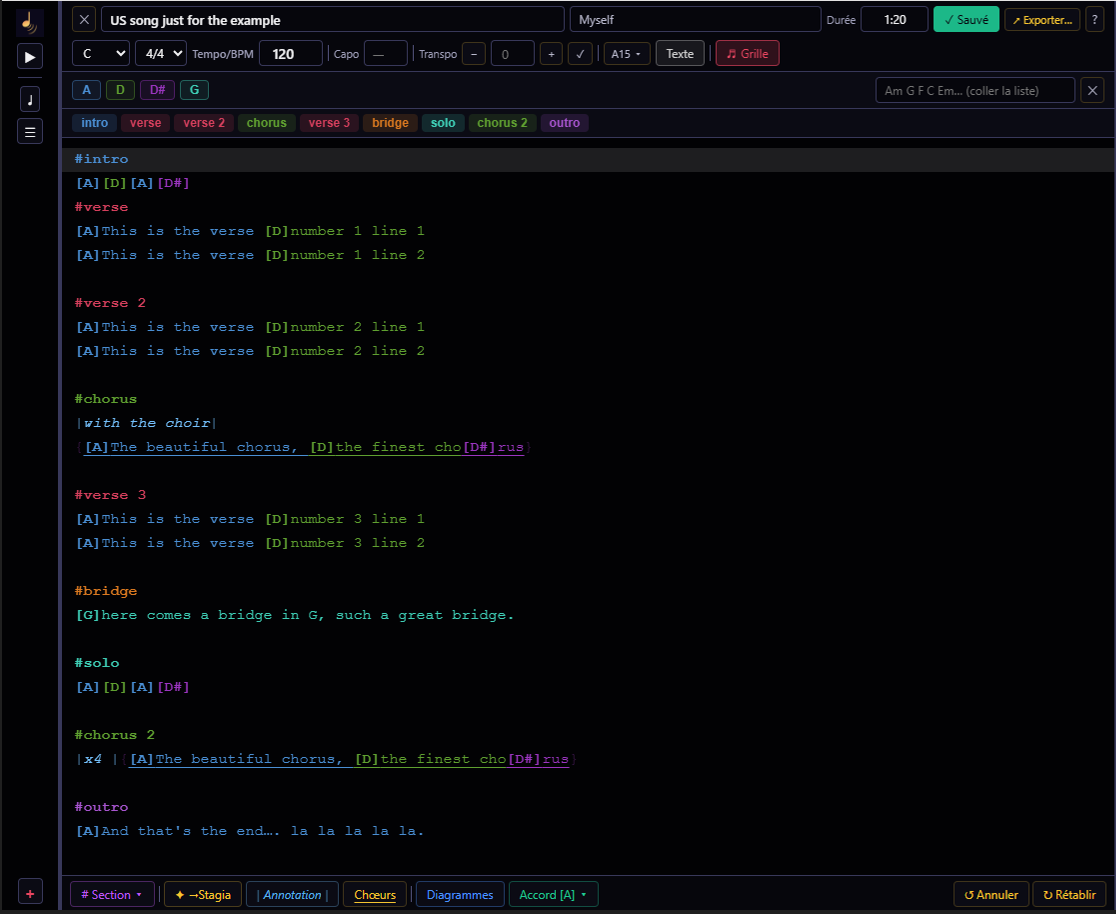
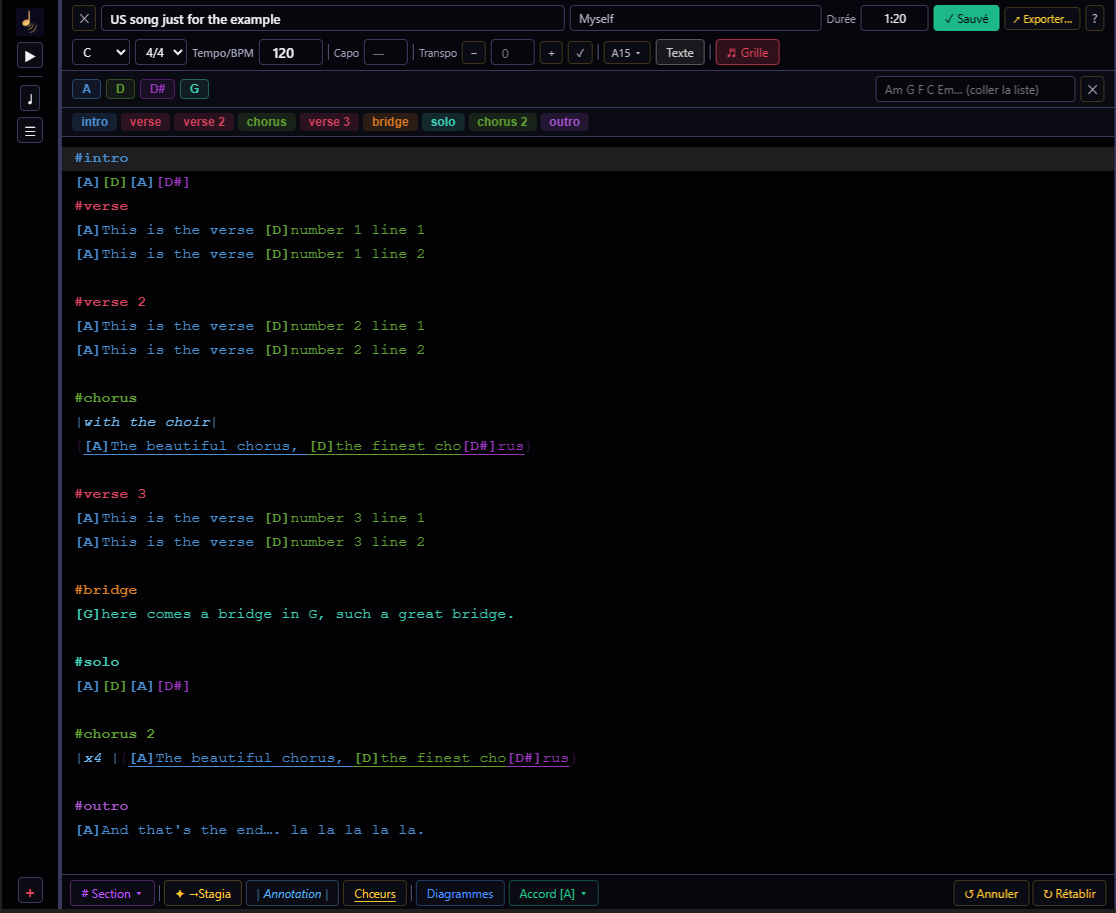
Add files via upload

diff --git a/gigflow-editor.html b/gigflow-editor.html
@@ -124,8 +124,8 @@ height="0" width="0" style="display:none;visibility:hidden"></iframe></noscript>
   <div class="wrap hero-grid">
     <div class="hero-copy">
       <p class="eyebrow">GigFlow Editor · Navigateur</p>
-      <h1><span data-tk="h1">Ton répertoire complet.</span><br><span class="accent" data-tk="accent">À moindre effort.</span></h1>
-      <p class="sub" data-tk="sub">Syntaxe légère, aperçu temps réel, export vers Live et InBeat. Tu construis ta base une bonne fois — et tu n’y reviens que pour l’enrichir.</p>
+      <h1><span data-tk="h1">Le confort du clavier, la précision de la souris.</span><br><span class="accent" data-tk="accent">La liberté pour la scène.</span></h1>
+      <p class="sub" data-tk="sub">Grand écran, clavier, souris — prépare tes chansons et setlists dans les meilleures conditions. Un export, et tu montes sur scène avec Live ou InBeat.</p>
       <div class="hero-actions">
         <a class="btn-primary" href="https://stagia.app/gigflow-editor/editor.html" target="_blank" rel="noopener"><i data-lucide="external-link"></i> Lancer GigFlow Editor</a>
       </div>
@@ -328,74 +328,6 @@ height="0" width="0" style="display:none;visibility:hidden"></iframe></noscript>
   m.addEventListener('click', function (e) { if (e.target.closest('a')) close(); });
 })();
 </script>
-
-<!-- TWEAKS — MESSAGING VARIANTS -->
-<div id="_tk" style="position:fixed;bottom:20px;right:20px;z-index:9999;font-family:-apple-system,BlinkMacSystemFont,'Segoe UI',sans-serif;display:flex;flex-direction:column;align-items:flex-end;gap:8px;">
-  <div id="_tkp" style="display:none;width:272px;background:#12101C;border:1px solid rgba(255,255,255,0.14);border-radius:14px;overflow:hidden;box-shadow:0 16px 56px rgba(0,0,0,0.65);">
-    <div style="display:flex;align-items:center;justify-content:space-between;padding:14px 16px 12px;border-bottom:1px solid rgba(255,255,255,0.08);">
-      <span style="font-size:12px;font-weight:700;color:#fff;letter-spacing:0.06em;text-transform:uppercase;">✦ Messaging</span>
-      <button id="_tkx" style="background:none;border:none;color:rgba(255,255,255,0.3);cursor:pointer;font-size:18px;padding:0;line-height:1;">×</button>
-    </div>
-    <div style="padding:12px 14px 14px;">
-      <div style="font-size:10px;letter-spacing:0.14em;text-transform:uppercase;color:rgba(255,255,255,0.35);margin-bottom:8px;">Variation</div>
-      <div id="_tko" style="display:flex;flex-direction:column;gap:6px;"></div>
-    </div>
-  </div>
-  <button id="_tkb" style="background:#12101C;border:1px solid rgba(255,255,255,0.16);color:#F5C25F;border-radius:8px;padding:8px 14px;cursor:pointer;font-size:11px;font-weight:700;letter-spacing:0.08em;text-transform:uppercase;">✦ Messaging</button>
-</div>
-<script>
-(function(){
-  var KEY='_tk_editor';
-  var V=[
-    {label:'A — Efficacité',h1:'Ton répertoire complet.',accent:'À moindre effort.',sub:'Syntaxe légère, aperçu temps réel, export vers Live et InBeat. Tu construis ta base une bonne fois — et tu n’y reviens que pour l’enrichir.'},
-    {label:'B — Workflow',h1:'Saisis une fois.',accent:'Joue partout.',sub:'GigFlow Editor alimente Live et InBeat. Une chanson saisie sur PC, aussitôt disponible sur tablette. Sans effort, sans doublon.'},
-    {label:'C — Confort',h1:'Le confort du clavier, la précision de la souris.',accent:'La liberté pour la scène.',sub:'Grand écran, clavier, souris — prépare tes chansons et setlists dans les meilleures conditions. Un export, et tu montes sur scène avec Live ou InBeat.'}
-  ];
-  function apply(i){
-    var v=V[i];
-    Object.keys(v).forEach(function(k){
-      if(k==='label')return;
-      var el=document.querySelector('[data-tk="'+k+'"]');
-      if(el)el.textContent=v[k];
-    });
-    localStorage.setItem(KEY,i);
-    document.querySelectorAll('._tkd').forEach(function(d,j){d.style.background=j===i?'#F5C25F':'transparent';});
-  }
-  var opts=document.getElementById('_tko');
-  V.forEach(function(v,i){
-    var row=document.createElement('button');
-    row.style.cssText='display:flex;align-items:flex-start;gap:10px;background:none;border:1px solid rgba(255,255,255,0.08);border-radius:8px;padding:10px 12px;cursor:pointer;text-align:left;width:100%;transition:border-color 120ms,background 120ms;color:#fff;';
-    row.onmouseover=function(){this.style.borderColor='rgba(255,255,255,0.2)';this.style.background='rgba(255,255,255,0.04)';};
-    row.onmouseout=function(){this.style.borderColor='rgba(255,255,255,0.08)';this.style.background='none';};
-    var dot=document.createElement('span');dot.className='_tkd';
-    dot.style.cssText='width:10px;height:10px;border-radius:50%;border:1.5px solid #F5C25F;flex:none;margin-top:3px;transition:background 160ms;';
-    var txt=document.createElement('span');txt.style.cssText='font-size:12px;line-height:1.45;';
-    txt.innerHTML='<span style="font-size:10px;text-transform:uppercase;letter-spacing:0.1em;color:rgba(255,255,255,0.4);display:block;margin-bottom:4px;">'+v.label+'<\/span><span style="color:rgba(255,255,255,0.9);">'+v.h1+'<\/span> <span style="color:#F5C25F;">'+v.accent+'<\/span>';
-    row.appendChild(dot);row.appendChild(txt);
-    row.addEventListener('click',function(){apply(i);});
-    opts.appendChild(row);
-  });
-  var saved=Math.min(parseInt(localStorage.getItem(KEY)||'0',10),V.length-1);
-  apply(saved);
-  var panel=document.getElementById('_tkp'),btn=document.getElementById('_tkb'),xb=document.getElementById('_tkx');
-  function setOpen(open){panel.style.display=open?'block':'none';try{window.parent.postMessage({type:'tweaks:state',open:open},'*');}catch(e){}}
-  btn.addEventListener('click',function(){setOpen(panel.style.display==='none');});
-  xb.addEventListener('click',function(){setOpen(false);});
-  window.addEventListener('message',function(e){
-    if(!e.data||!e.data.type)return;
-    if(e.data.type==='tweaks:toggle')setOpen(panel.style.display==='none');
-    if(e.data.type==='tweaks:open')setOpen(true);
-    if(e.data.type==='tweaks:close')setOpen(false);
-  });
-  try{window.parent.postMessage({type:'tweaks:ready'},'*');}catch(e){}
-})();
-</script>
-<template id="__bundler_thumbnail" data-bg-color="#0C0A18">
-  <svg viewBox="0 0 1200 800" xmlns="http://www.w3.org/2000/svg">
-    <rect width="1200" height="800" fill="#0C0A18"/>
-    <text x="600" y="420" text-anchor="middle" font-family="monospace" font-weight="700" font-size="180" fill="#E63429">GE</text>
-  </svg>
-</template>
 </body>
 <template id="__bundler_thumbnail" data-bg-color="#0C0A18">
   <svg viewBox="0 0 1200 800" xmlns="http://www.w3.org/2000/svg">

diff --git a/index.html b/index.html
@@ -611,68 +611,6 @@ height="0" width="0" style="display:none;visibility:hidden"></iframe></noscript>
   m.addEventListener('click', function (e) { if (e.target.closest('a')) close(); });
 })();
 </script>
-
-<!-- TWEAKS — MESSAGING VARIANTS -->
-<div id="_tk" style="position:fixed;bottom:20px;right:20px;z-index:9999;font-family:-apple-system,BlinkMacSystemFont,'Segoe UI',sans-serif;display:flex;flex-direction:column;align-items:flex-end;gap:8px;">
-  <div id="_tkp" style="display:none;width:272px;background:#12101C;border:1px solid rgba(255,255,255,0.14);border-radius:14px;overflow:hidden;box-shadow:0 16px 56px rgba(0,0,0,0.65);">
-    <div style="display:flex;align-items:center;justify-content:space-between;padding:14px 16px 12px;border-bottom:1px solid rgba(255,255,255,0.08);">
-      <span style="font-size:12px;font-weight:700;color:#fff;letter-spacing:0.06em;text-transform:uppercase;">✦ Messaging</span>
-      <button id="_tkx" style="background:none;border:none;color:rgba(255,255,255,0.3);cursor:pointer;font-size:18px;padding:0;line-height:1;">×</button>
-    </div>
-    <div style="padding:12px 14px 14px;">
-      <div style="font-size:10px;letter-spacing:0.14em;text-transform:uppercase;color:rgba(255,255,255,0.35);margin-bottom:8px;">Variation</div>
-      <div id="_tko" style="display:flex;flex-direction:column;gap:6px;"></div>
-    </div>
-  </div>
-  <button id="_tkb" style="background:#12101C;border:1px solid rgba(255,255,255,0.16);color:#F5C25F;border-radius:8px;padding:8px 14px;cursor:pointer;font-size:11px;font-weight:700;letter-spacing:0.08em;text-transform:uppercase;">✦ Messaging</button>
-</div>
-<script>
-(function(){
-  var KEY='_tk_home';
-  var V=[
-    {label:'A — Brand EN',eyebrow:'Stagia',h1:'Tools for musicians,',accent:'by musicians.',sub:'GigFlow Live, InBeat, GigFlow Editor — des apps simples, fiables, offline. Faites pour jouer, pas pour naviguer dans des menus.'},
-    {label:'B — Complice',eyebrow:'Pour les musiciens de scène',h1:'Tout pour jouer.',accent:'Rien de superflu.',sub:'Paroles, accords, tempo, setlists — on a fait les apps qu’on aurait voulu avoir. Offline, achat unique, sans friction.'},
-    {label:'C — Résultat',eyebrow:'Tes outils de scène',h1:'La scène sans les galères.',accent:'Enfin.',sub:'Trois apps pensées par des musiciens. Pour le chanteur, le batteur, la préparation sur PC. Offline. Sans abonnement.'}
-  ];
-  function apply(i){
-    var v=V[i];
-    Object.keys(v).forEach(function(k){
-      if(k==='label')return;
-      var el=document.querySelector('[data-tk="'+k+'"]');
-      if(el)el.textContent=v[k];
-    });
-    localStorage.setItem(KEY,i);
-    document.querySelectorAll('._tkd').forEach(function(d,j){d.style.background=j===i?'#F5C25F':'transparent';});
-  }
-  var opts=document.getElementById('_tko');
-  V.forEach(function(v,i){
-    var row=document.createElement('button');
-    row.style.cssText='display:flex;align-items:flex-start;gap:10px;background:none;border:1px solid rgba(255,255,255,0.08);border-radius:8px;padding:10px 12px;cursor:pointer;text-align:left;width:100%;transition:border-color 120ms,background 120ms;color:#fff;';
-    row.onmouseover=function(){this.style.borderColor='rgba(255,255,255,0.2)';this.style.background='rgba(255,255,255,0.04)';};
-    row.onmouseout=function(){this.style.borderColor='rgba(255,255,255,0.08)';this.style.background='none';};
-    var dot=document.createElement('span');dot.className='_tkd';
-    dot.style.cssText='width:10px;height:10px;border-radius:50%;border:1.5px solid #F5C25F;flex:none;margin-top:3px;transition:background 160ms;';
-    var txt=document.createElement('span');txt.style.cssText='font-size:12px;line-height:1.45;';
-    txt.innerHTML='<span style="font-size:10px;text-transform:uppercase;letter-spacing:0.1em;color:rgba(255,255,255,0.4);display:block;margin-bottom:4px;">'+v.label+'<\/span><span style="color:rgba(255,255,255,0.9);">'+v.h1+'<\/span> <span style="color:#F5C25F;">'+v.accent+'<\/span>';
-    row.appendChild(dot);row.appendChild(txt);
-    row.addEventListener('click',function(){apply(i);});
-    opts.appendChild(row);
-  });
-  var saved=Math.min(parseInt(localStorage.getItem(KEY)||'0',10),V.length-1);
-  apply(saved);
-  var panel=document.getElementById('_tkp'),btn=document.getElementById('_tkb'),xb=document.getElementById('_tkx');
-  function setOpen(open){panel.style.display=open?'block':'none';try{window.parent.postMessage({type:'tweaks:state',open:open},'*');}catch(e){}}
-  btn.addEventListener('click',function(){setOpen(panel.style.display==='none');});
-  xb.addEventListener('click',function(){setOpen(false);});
-  window.addEventListener('message',function(e){
-    if(!e.data||!e.data.type)return;
-    if(e.data.type==='tweaks:toggle')setOpen(panel.style.display==='none');
-    if(e.data.type==='tweaks:open')setOpen(true);
-    if(e.data.type==='tweaks:close')setOpen(false);
-  });
-  try{window.parent.postMessage({type:'tweaks:ready'},'*');}catch(e){}
-})();
-</script>
 <template id="__bundler_thumbnail" data-bg-color="#0C0A18">
   <svg viewBox="0 0 1200 800" xmlns="http://www.w3.org/2000/svg">
     <rect width="1200" height="800" fill="#0C0A18"/>

diff --git a/gigflow-live.html b/gigflow-live.html
@@ -280,68 +280,6 @@ height="0" width="0" style="display:none;visibility:hidden"></iframe></noscript>
   m.addEventListener('click', function (e) { if (e.target.closest('a')) close(); });
 })();
 </script>
-
-<!-- TWEAKS — MESSAGING VARIANTS -->
-<div id="_tk" style="position:fixed;bottom:20px;right:20px;z-index:9999;font-family:-apple-system,BlinkMacSystemFont,'Segoe UI',sans-serif;display:flex;flex-direction:column;align-items:flex-end;gap:8px;">
-  <div id="_tkp" style="display:none;width:272px;background:#12101C;border:1px solid rgba(255,255,255,0.14);border-radius:14px;overflow:hidden;box-shadow:0 16px 56px rgba(0,0,0,0.65);">
-    <div style="display:flex;align-items:center;justify-content:space-between;padding:14px 16px 12px;border-bottom:1px solid rgba(255,255,255,0.08);">
-      <span style="font-size:12px;font-weight:700;color:#fff;letter-spacing:0.06em;text-transform:uppercase;">✦ Messaging</span>
-      <button id="_tkx" style="background:none;border:none;color:rgba(255,255,255,0.3);cursor:pointer;font-size:18px;padding:0;line-height:1;">×</button>
-    </div>
-    <div style="padding:12px 14px 14px;">
-      <div style="font-size:10px;letter-spacing:0.14em;text-transform:uppercase;color:rgba(255,255,255,0.35);margin-bottom:8px;">Variation</div>
-      <div id="_tko" style="display:flex;flex-direction:column;gap:6px;"></div>
-    </div>
-  </div>
-  <button id="_tkb" style="background:#12101C;border:1px solid rgba(255,255,255,0.16);color:#F5C25F;border-radius:8px;padding:8px 14px;cursor:pointer;font-size:11px;font-weight:700;letter-spacing:0.08em;text-transform:uppercase;">✦ Messaging</button>
-</div>
-<script>
-(function(){
-  var KEY='_tk_live';
-  var V=[
-    {label:'A — Direct',h1:'Tu joues.',accent:'GigFlow Live gère le reste.',sub:'Paroles, accords, setlist — tout sous les yeux sans toucher l’écran. Simple, fiable, pensé pour la scène.'},
-    {label:'B — Résultat',h1:'Tes mains sur l’instrument.',accent:'Le reste, c’est nous.',sub:'Navigue à la pédale, lis tes accords d’un coup d’œil, suis le chrono. GigFlow Live tourne en silence pendant que toi tu joues.'},
-    {label:'C — Scène',h1:'La setlist dans la poche.',accent:'L’instrument dans les mains.',sub:'Accords colorés, sections repérées, navigation pédale. Tout ce qu’il faut pour monter sur scène sans rien oublier.'}
-  ];
-  function apply(i){
-    var v=V[i];
-    Object.keys(v).forEach(function(k){
-      if(k==='label')return;
-      var el=document.querySelector('[data-tk="'+k+'"]');
-      if(el)el.textContent=v[k];
-    });
-    localStorage.setItem(KEY,i);
-    document.querySelectorAll('._tkd').forEach(function(d,j){d.style.background=j===i?'#F5C25F':'transparent';});
-  }
-  var opts=document.getElementById('_tko');
-  V.forEach(function(v,i){
-    var row=document.createElement('button');
-    row.style.cssText='display:flex;align-items:flex-start;gap:10px;background:none;border:1px solid rgba(255,255,255,0.08);border-radius:8px;padding:10px 12px;cursor:pointer;text-align:left;width:100%;transition:border-color 120ms,background 120ms;color:#fff;';
-    row.onmouseover=function(){this.style.borderColor='rgba(255,255,255,0.2)';this.style.background='rgba(255,255,255,0.04)';};
-    row.onmouseout=function(){this.style.borderColor='rgba(255,255,255,0.08)';this.style.background='none';};
-    var dot=document.createElement('span');dot.className='_tkd';
-    dot.style.cssText='width:10px;height:10px;border-radius:50%;border:1.5px solid #F5C25F;flex:none;margin-top:3px;transition:background 160ms;';
-    var txt=document.createElement('span');txt.style.cssText='font-size:12px;line-height:1.45;';
-    txt.innerHTML='<span style="font-size:10px;text-transform:uppercase;letter-spacing:0.1em;color:rgba(255,255,255,0.4);display:block;margin-bottom:4px;">'+v.label+'<\/span><span style="color:rgba(255,255,255,0.9);">'+v.h1+'<\/span> <span style="color:#F5C25F;">'+v.accent+'<\/span>';
-    row.appendChild(dot);row.appendChild(txt);
-    row.addEventListener('click',function(){apply(i);});
-    opts.appendChild(row);
-  });
-  var saved=Math.min(parseInt(localStorage.getItem(KEY)||'0',10),V.length-1);
-  apply(saved);
-  var panel=document.getElementById('_tkp'),btn=document.getElementById('_tkb'),xb=document.getElementById('_tkx');
-  function setOpen(open){panel.style.display=open?'block':'none';try{window.parent.postMessage({type:'tweaks:state',open:open},'*');}catch(e){}}
-  btn.addEventListener('click',function(){setOpen(panel.style.display==='none');});
-  xb.addEventListener('click',function(){setOpen(false);});
-  window.addEventListener('message',function(e){
-    if(!e.data||!e.data.type)return;
-    if(e.data.type==='tweaks:toggle')setOpen(panel.style.display==='none');
-    if(e.data.type==='tweaks:open')setOpen(true);
-    if(e.data.type==='tweaks:close')setOpen(false);
-  });
-  try{window.parent.postMessage({type:'tweaks:ready'},'*');}catch(e){}
-})();
-</script>
 <template id="__bundler_thumbnail" data-bg-color="#0C0A18">
   <svg viewBox="0 0 1200 800" xmlns="http://www.w3.org/2000/svg">
     <rect width="1200" height="800" fill="#0C0A18"/>
